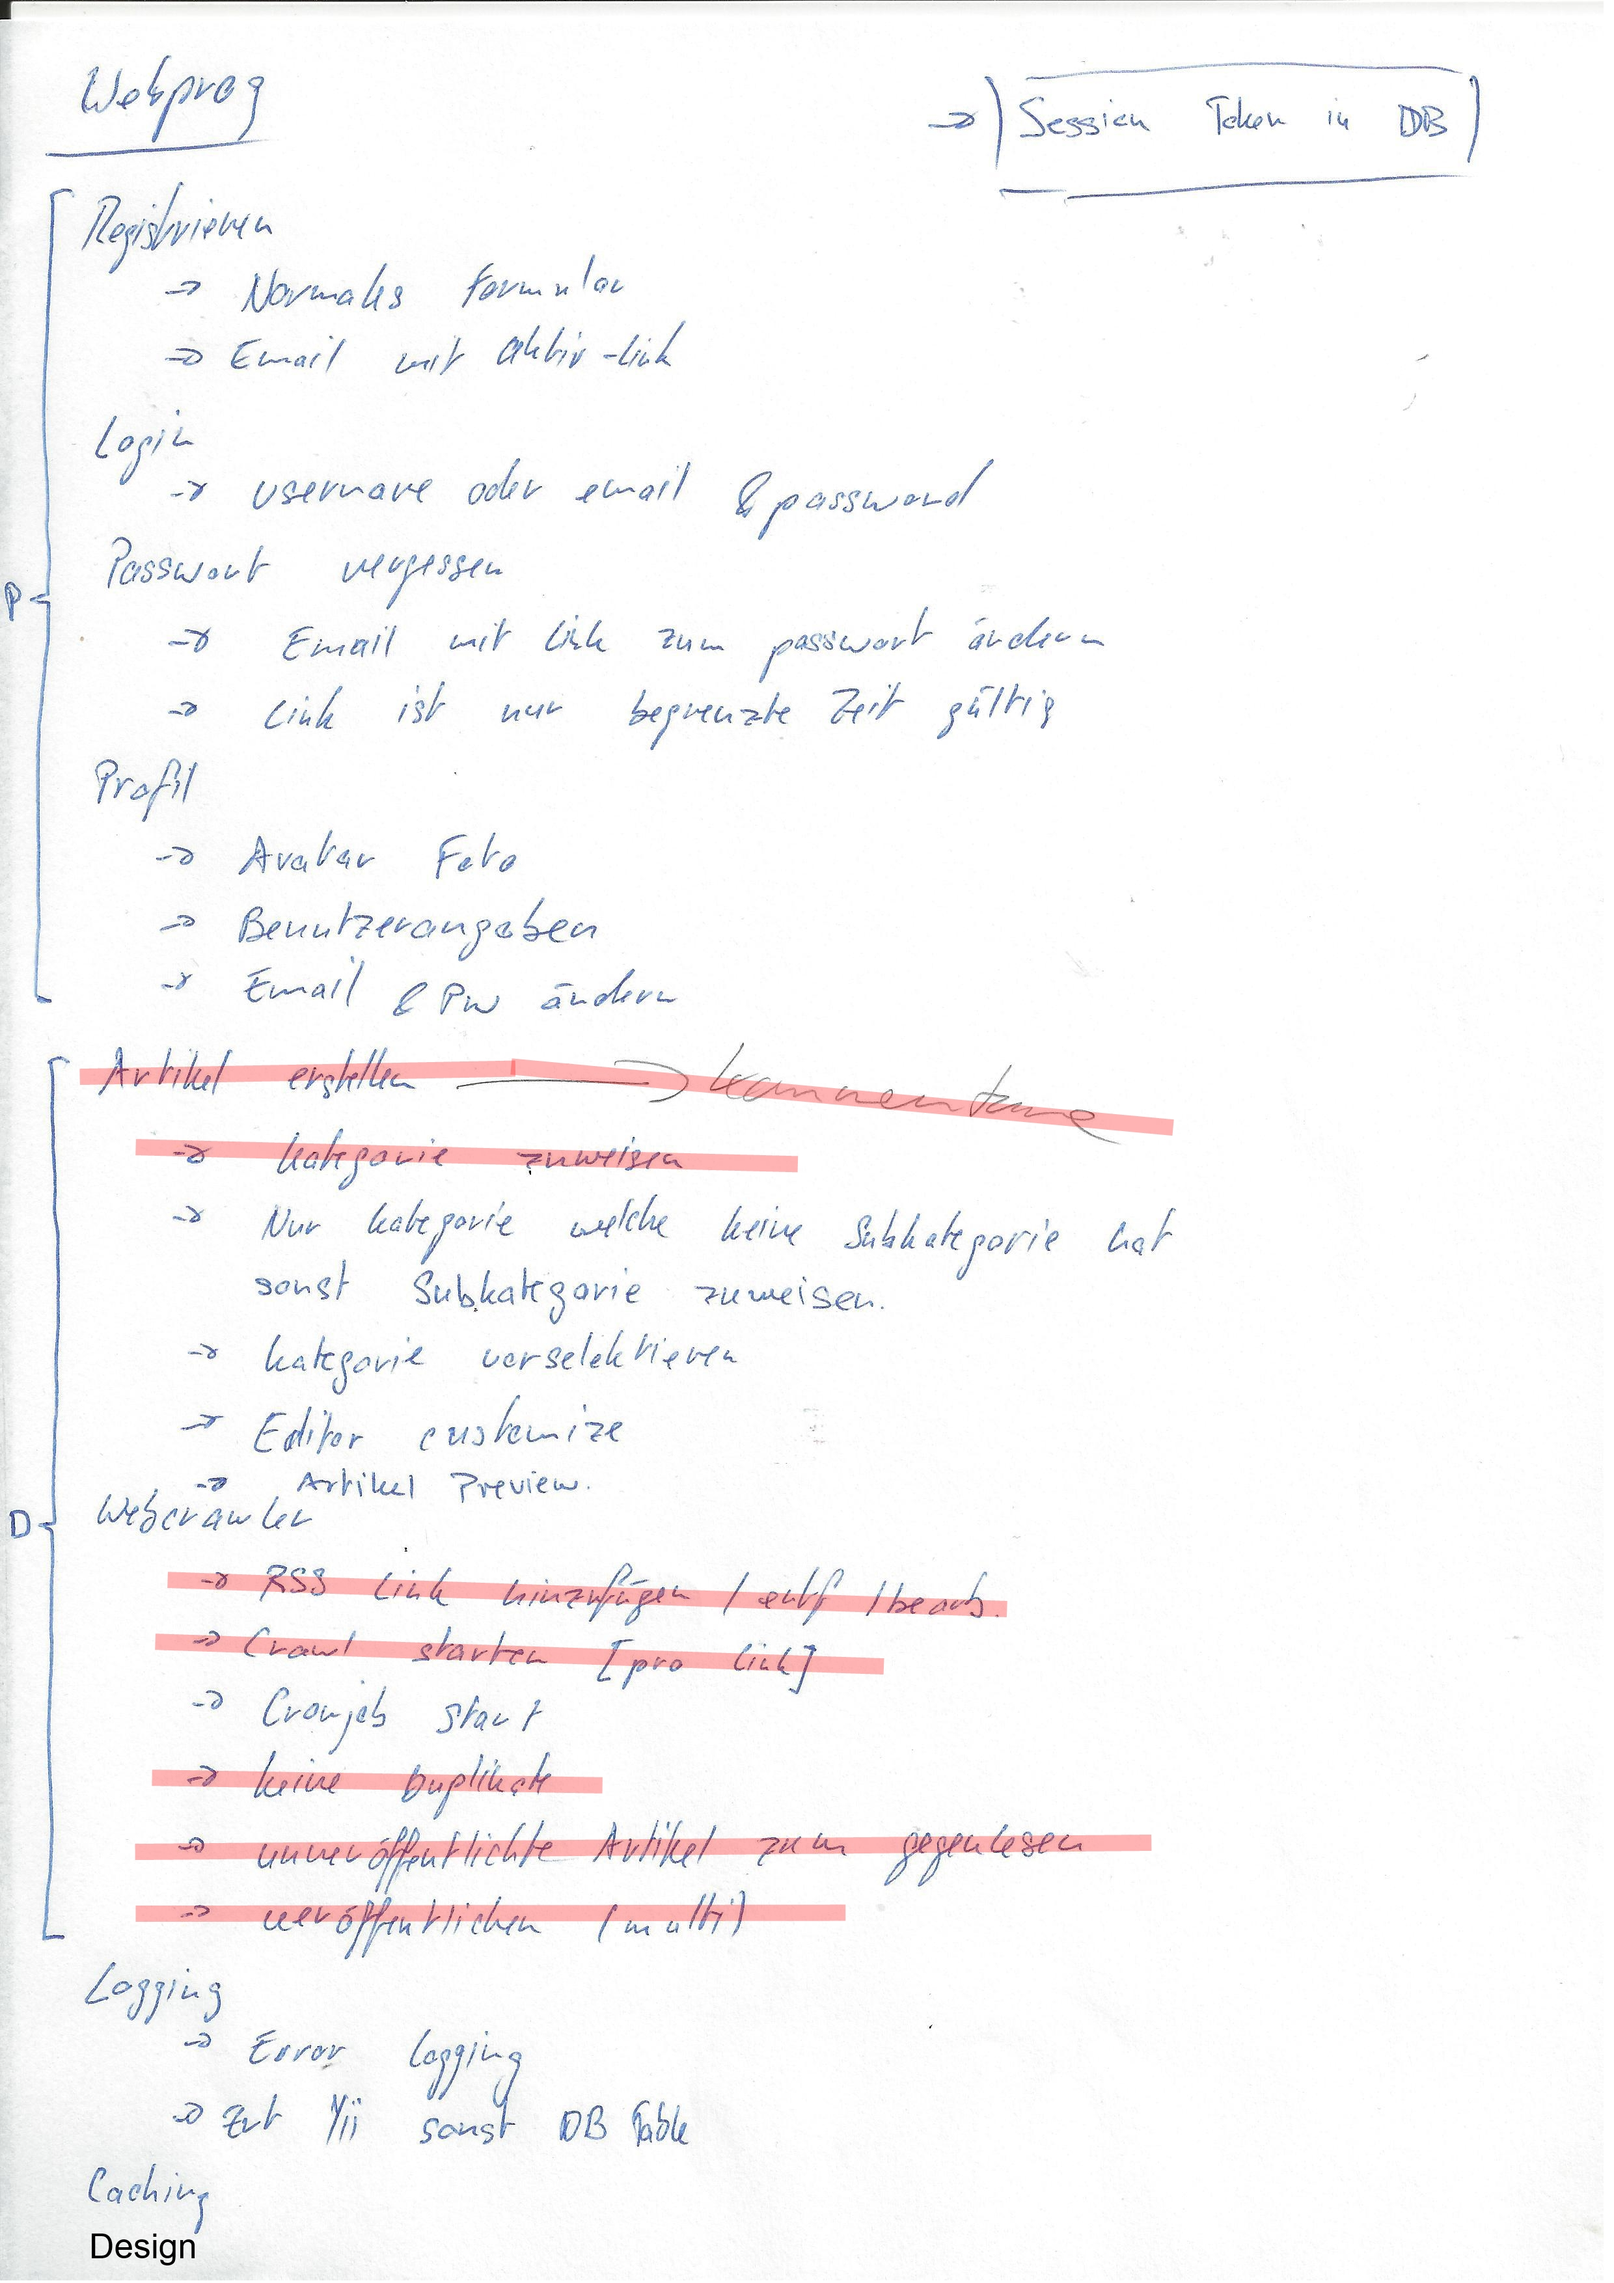
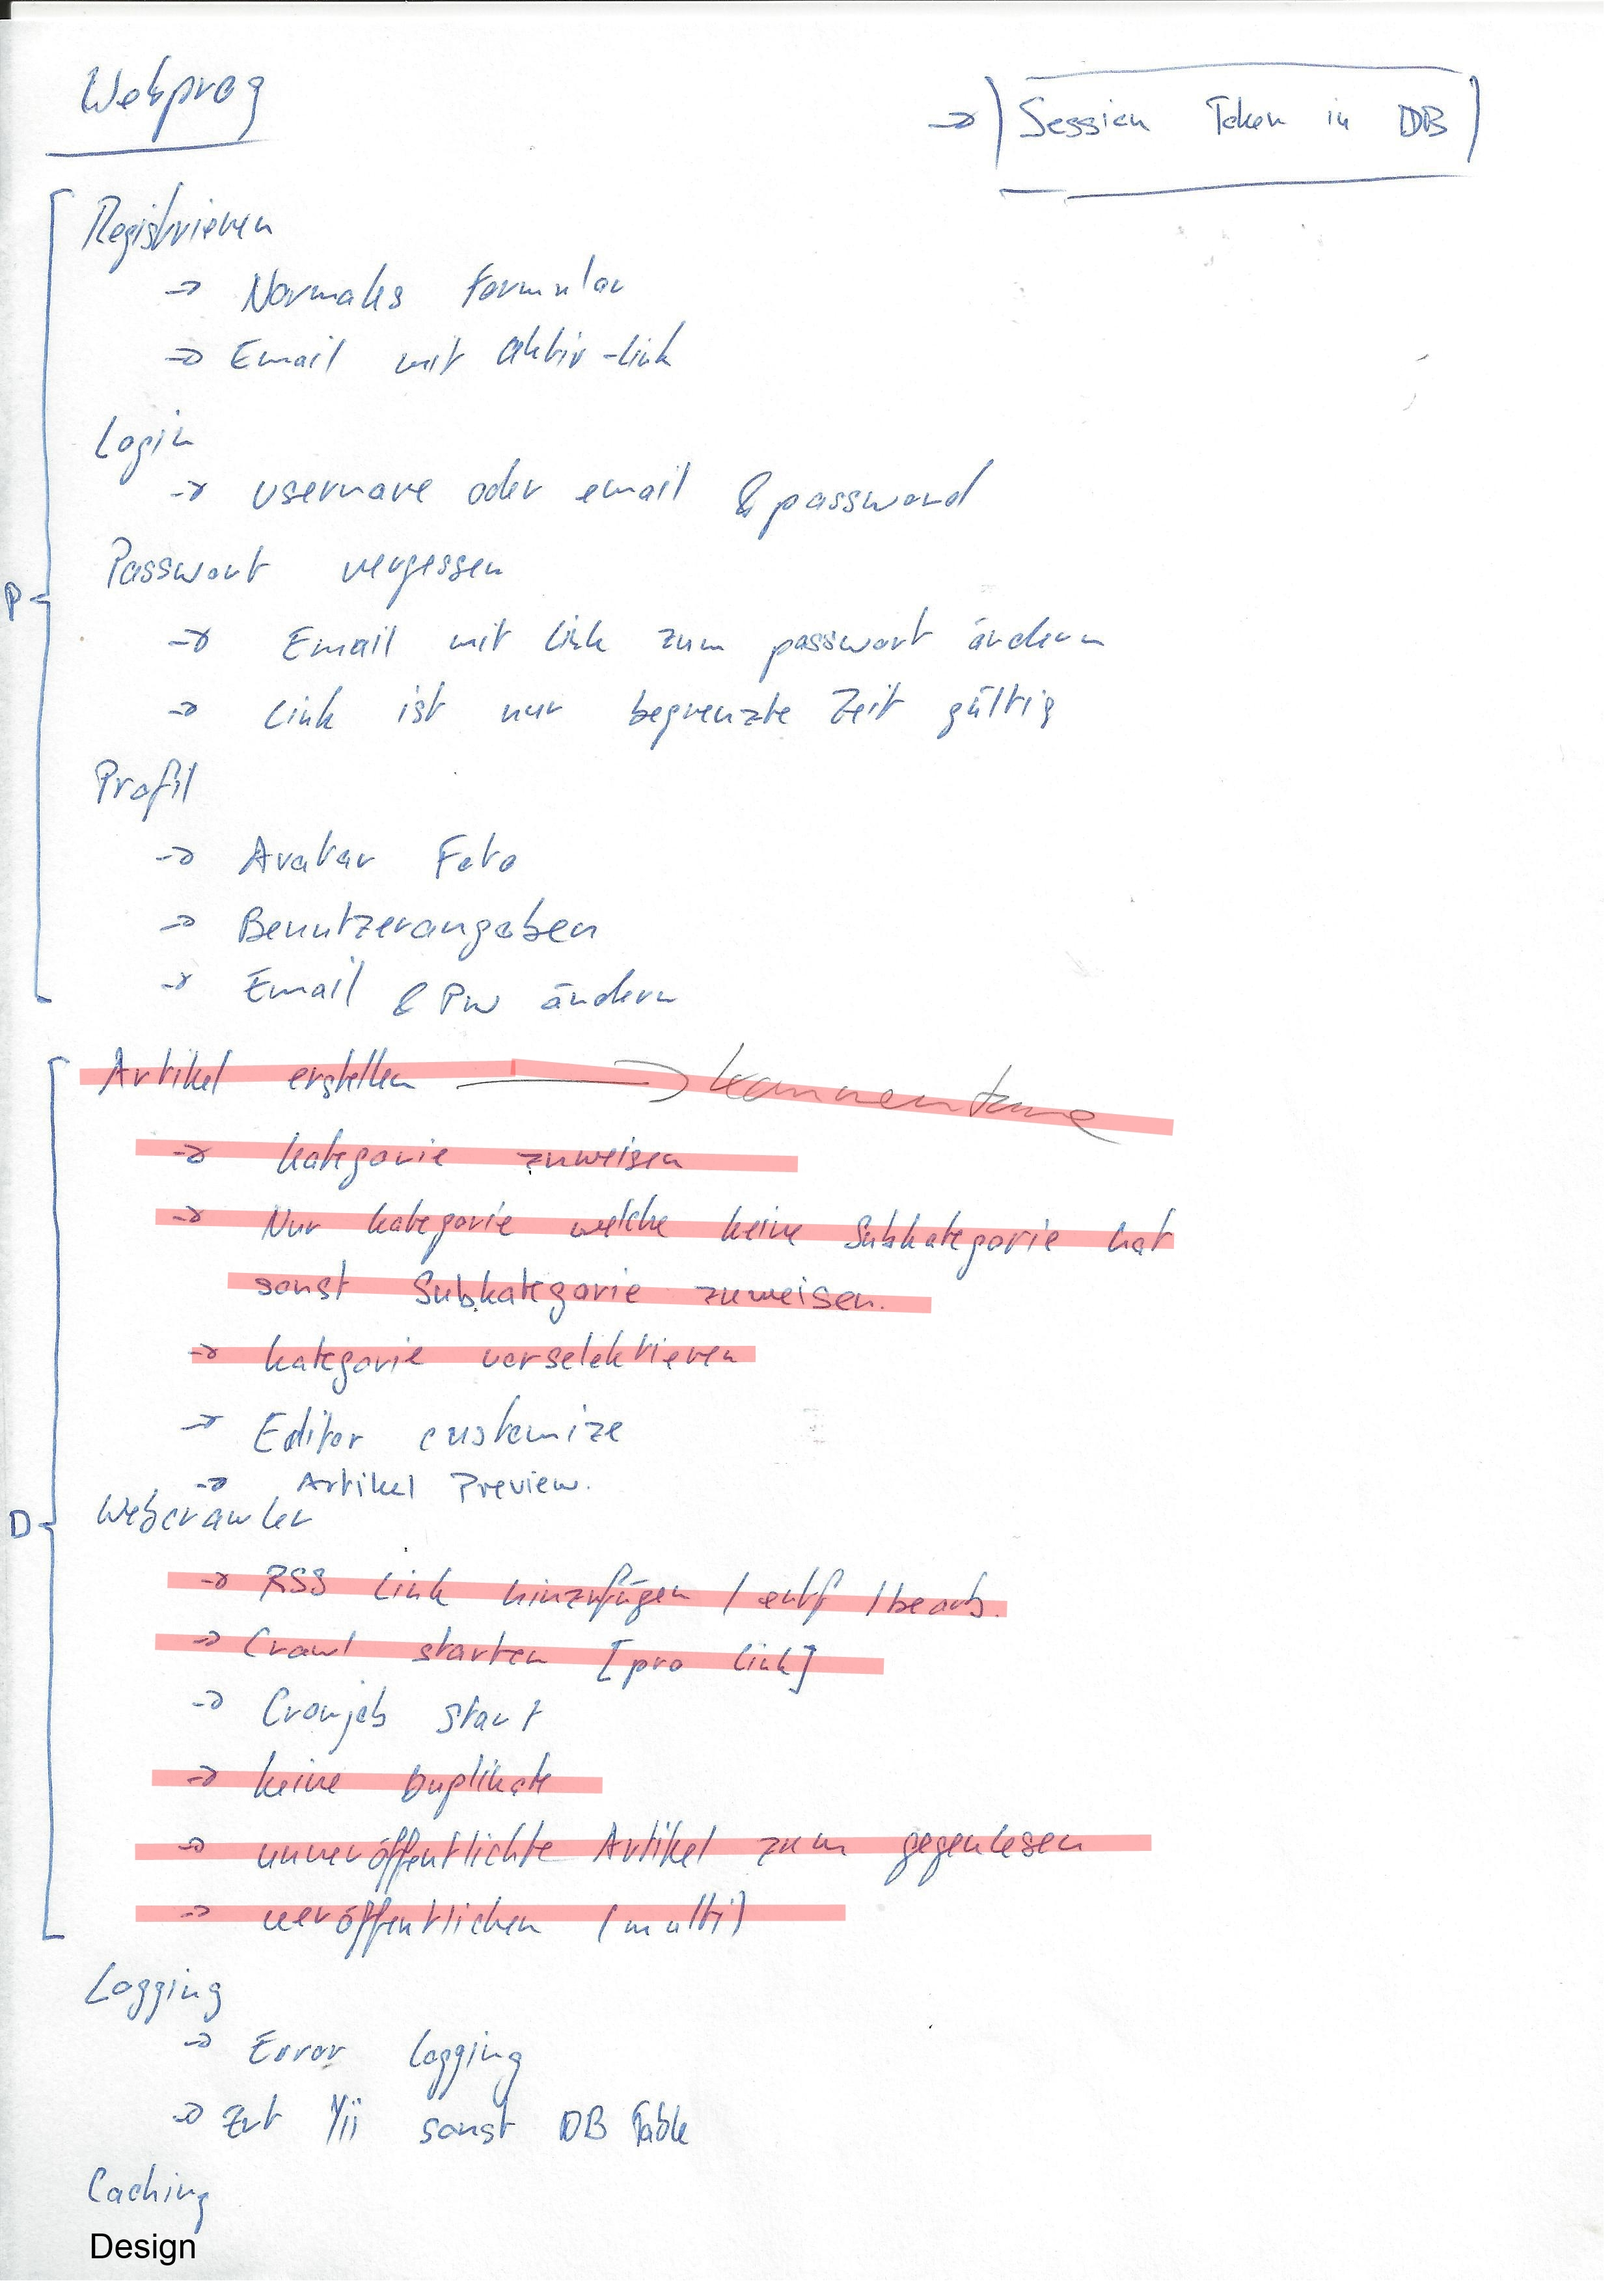
preselect category

Changed region(s): [[0.0931, 0.5282, 0.7141, 0.6214]]

diff --git a/views/article/_form.php b/views/article/_form.php
@@ -18,6 +18,7 @@ use dosamigos\ckeditor\CKEditor;
     <?= ''//$form->field($model, 'subCategoryId')->dropDownList(ArrayHelper::map(app\models\Subcategory::find()->all(), 'subCategoryId', 'name'), ['prompt' => 'a'])  ?>
     
     <div class="form-group field-article-categoryValue">
+        <?php $primaryCategorieValueChoice = $model->findPrimaryCategorieValueChoice(); ?>
         <label class="control-label" for="article-categoryValue">Kategorie</label>
         <select id="article-categoryValue" class="form-control create-art-select-cat" name="Article[categoryValue]">
         <?php if (!isset($model->categoryValue)): ?>
@@ -28,10 +29,12 @@ use dosamigos\ckeditor\CKEditor;
             <?php if (count($cat->subcategories) > 0): ?>
                 <optgroup label="<?= $cat->name ?>" value="<?= 'Category' . $cat->categoryId ?>">
             <?php else: ?>
-                <option class="parent hasNoChild" value="<?=  'Category' . $cat->categoryId ?>"><?=$cat->name ?></option>
+                <option class="parent hasNoChild" value="<?=  'Category' . $cat->categoryId ?>"
+                    <?= $primaryCategorieValueChoice == 'Category' . $cat->categoryId ? 'selected' : '' ?>><?=$cat->name ?></option>
             <?php endif; ?>
             <?php foreach ($cat->subcategories as $subcat): ?>
-                <option class="child" value="<?= 'SubCategory' . $subcat->subCategoryId ?>"><?= $subcat->name ?></option>
+                <option class="child" value="<?= 'SubCategory' . $subcat->subCategoryId ?>"
+                        <?= $primaryCategorieValueChoice == 'SubCategory' . $subcat->subCategoryId ? 'selected' : '' ?>><?= $subcat->name ?></option>
             <?php endforeach; ?>
             <?php if (count($cat->subcategories) > 0): ?>
                 </optgroup>

diff --git a/models/Article.php b/models/Article.php
@@ -185,4 +185,26 @@ class Article extends \yii\db\ActiveRecord {
     public function buildArticleDetailLinkAsHtml($text, $options = []) {
         return Html::a($text, 'index.php?r=article/view&id=' . $this->articleId, $options);
     }
+    
+    public function findPrimaryCategorieValueChoice() {
+        if (is_null($this->getCategoryValue())) {
+            //get most used category from user with awesome select statement
+            /*
+                select		count(articleId) as articleCount, concat('Category', cast(ifnull(categoryId, 0) as char)) as category
+                from		sc_article
+                where		userId = 1
+                group by	categoryId
+                union
+                select		count(articleId) as articleCount, concat('SubCategory', cast(ifnull(subCategoryId, 0) as char)) as category
+                from		sc_article
+                where		userId = 1
+                group by	subCategoryId
+                order by	articleCount desc
+             */
+            $lastArticle = Article::find()->where(['userId' => \Yii::$app->user->id])->orderBy('dateCreated DESC')->one();
+            return $lastArticle->getCategoryValue();
+        } else {
+            return $this->categoryValue;
+        }
+    }
 }
